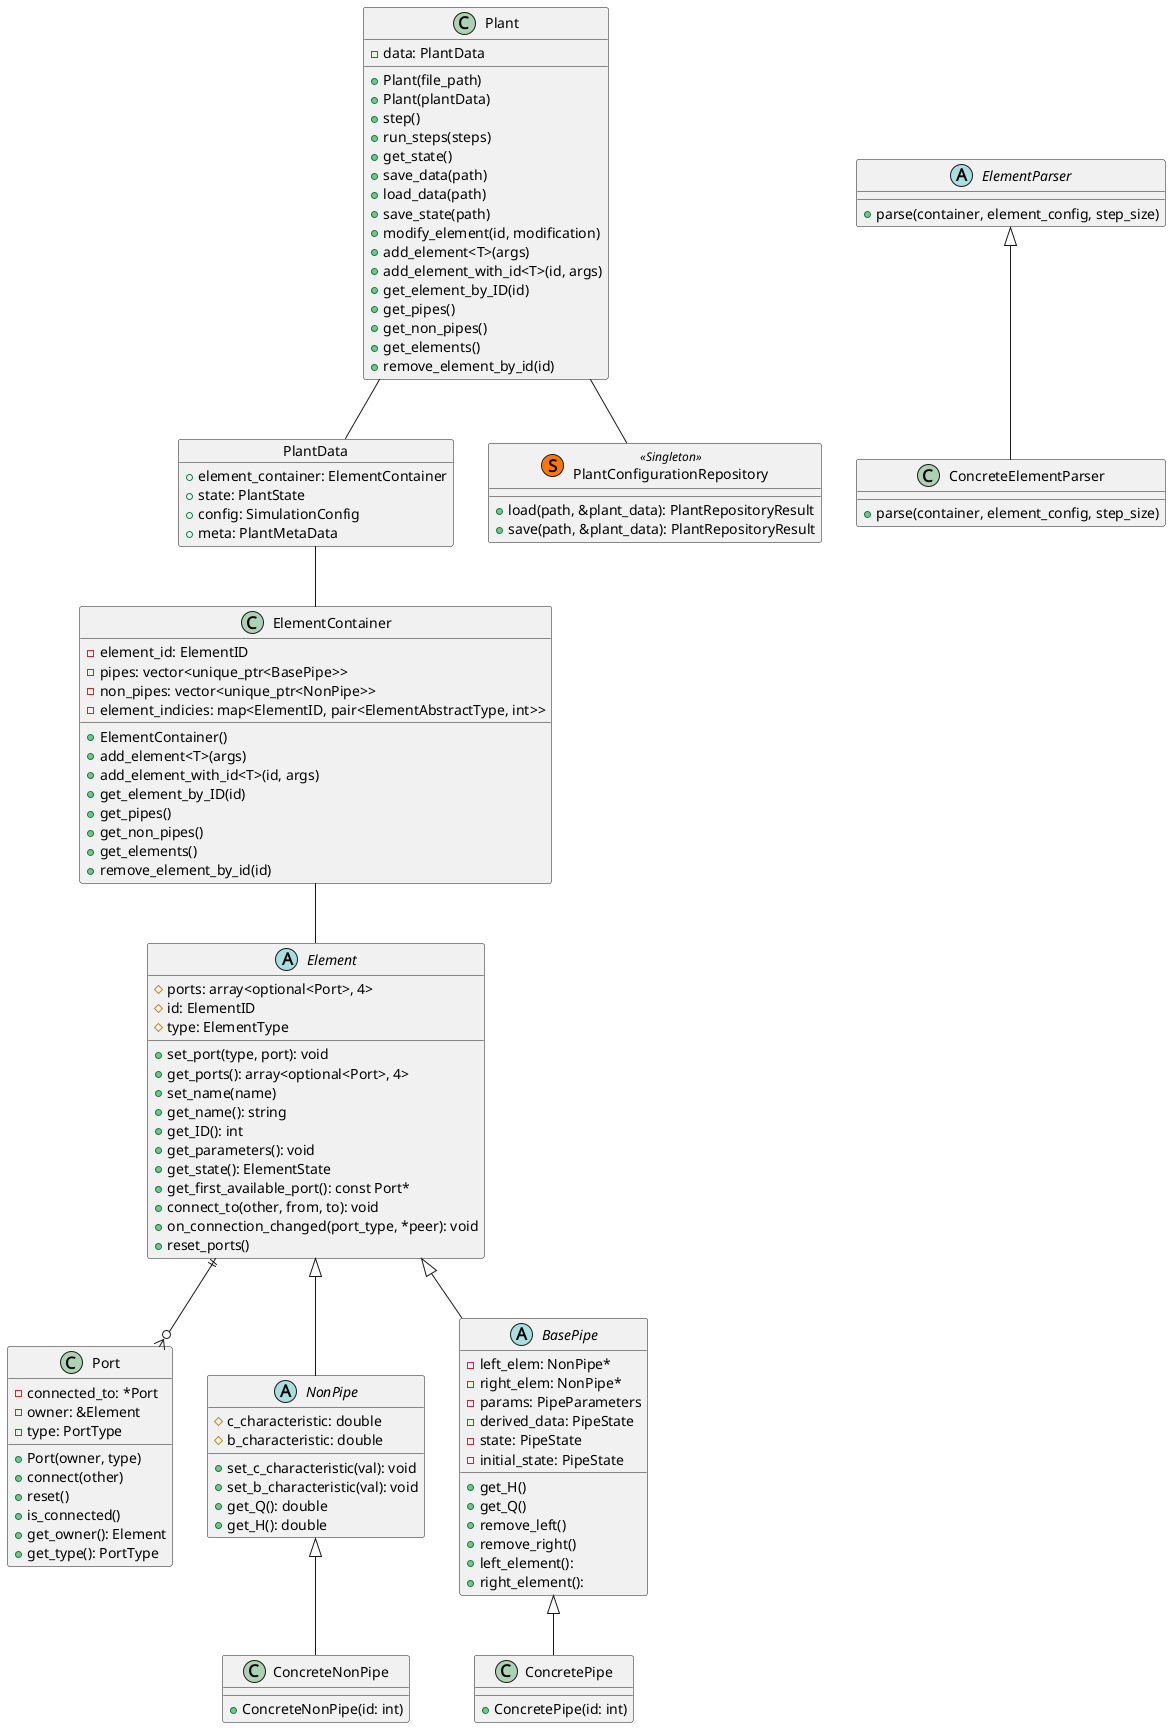
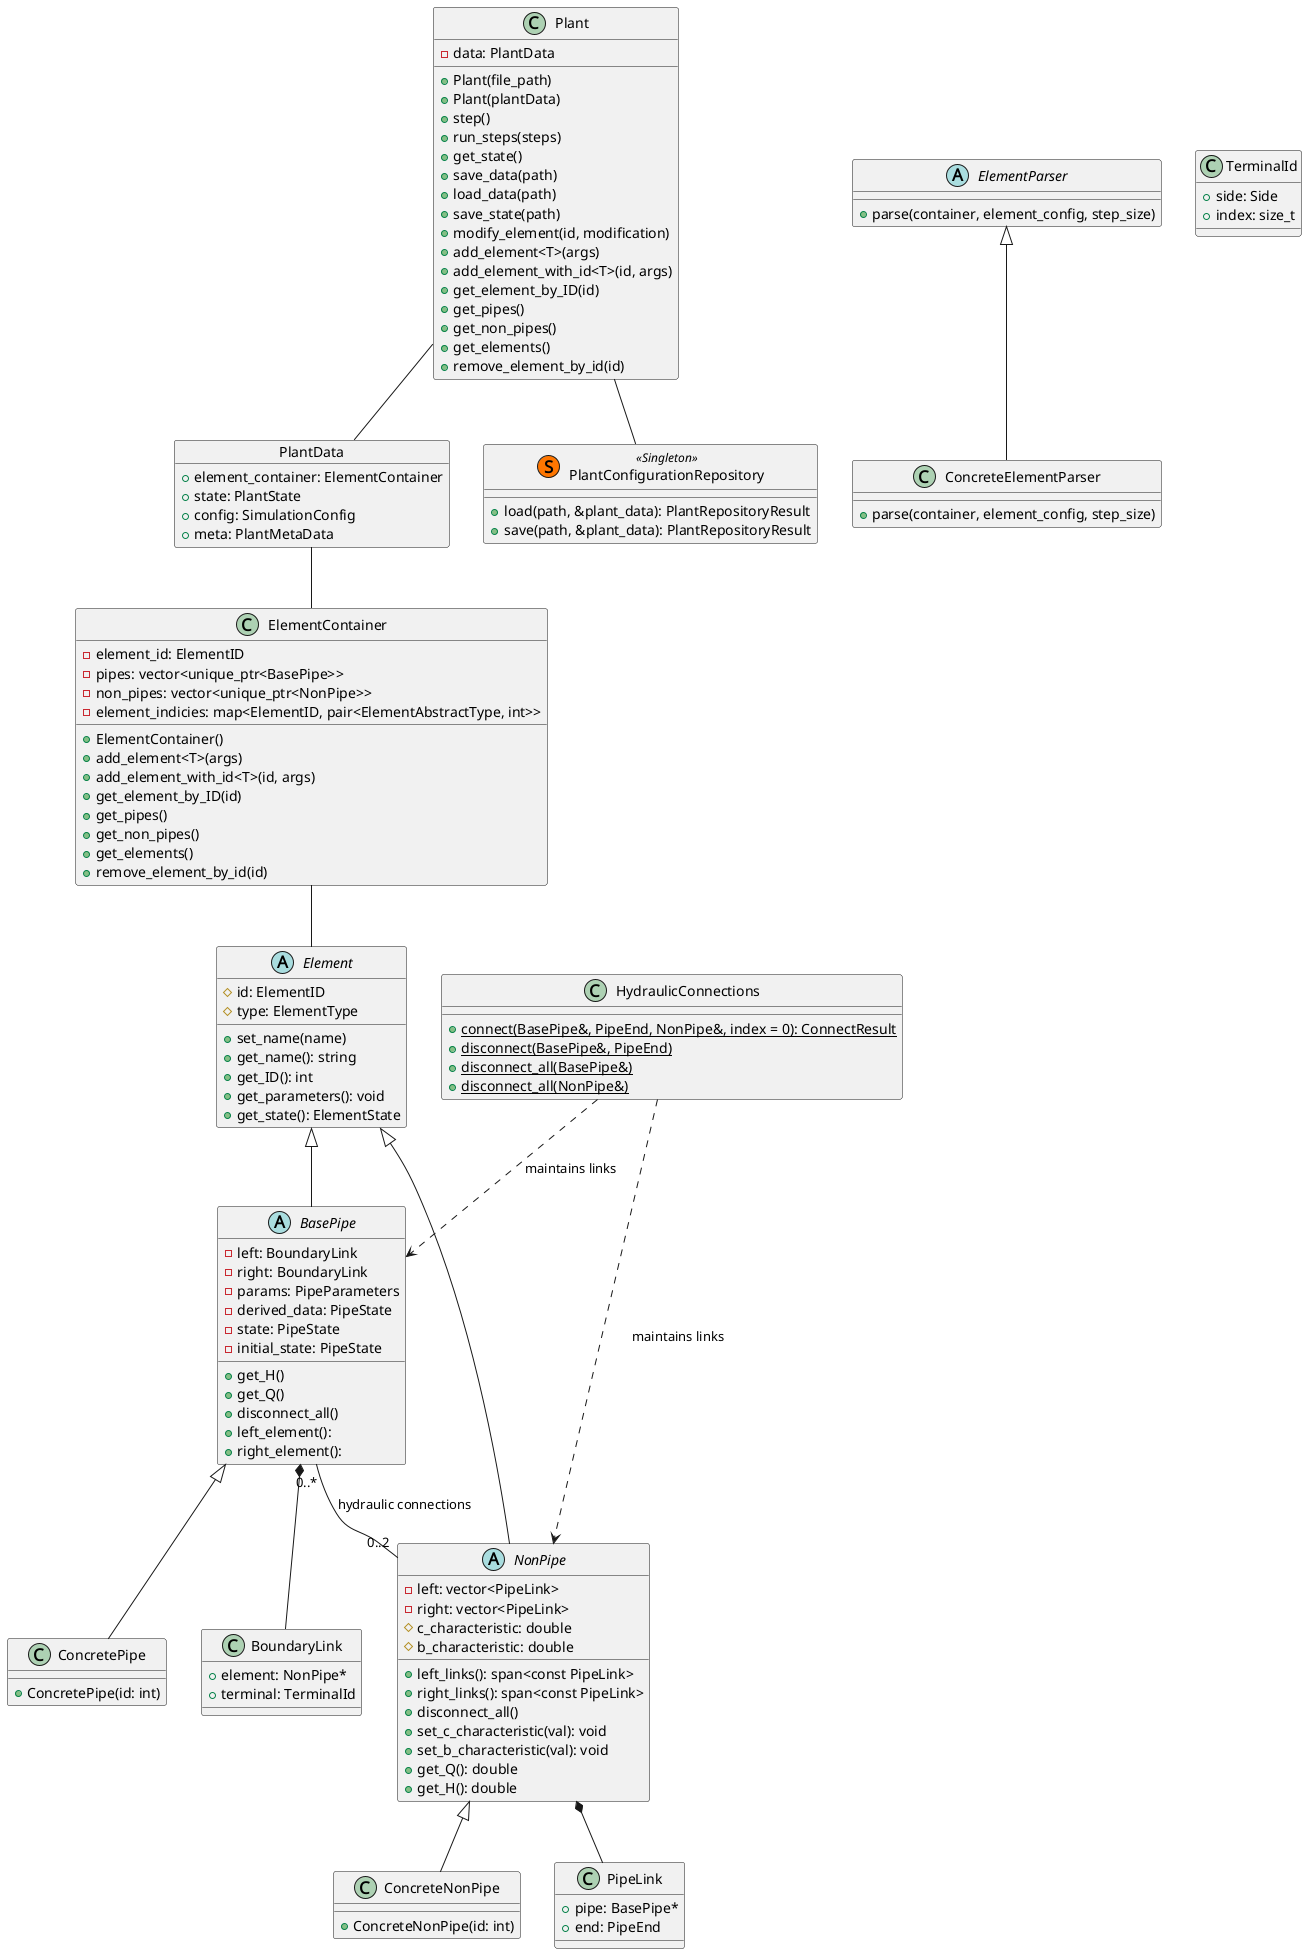
refactor!: refactor element connections and add new elements

diff --git a/examples/reservoir_pipe_valve.cpp b/examples/reservoir_pipe_valve.cpp
@@ -6,11 +6,11 @@
 #include <lvtrans/elements/reservoir.hpp>
 #include <lvtrans/elements/valve.hpp>
 #include <memory>
+#include <stdexcept>
 #include "lvtrans/const.hpp"
 #include "lvtrans/elements/constant_level_left.hpp"
 #include "lvtrans/elements/element.hpp"
 #include "lvtrans/plant.hpp"
-#include "lvtrans/port.hpp"
 
 inline double a = 1200.0;   // Wave propagation velocity [m/s]
 inline double f = 0.018;    // Darcy-Weisbach friction factor
@@ -43,6 +43,7 @@ int main() {
     return 1;
   }
 
+  output_file << "t,tau,H_valve,Q_valve\n";
   const auto system_dt = 0.1;
   const auto segments =
       calculate_nodes_temp(pipe_config.lambda, pipe_config.length, system_dt,
@@ -53,8 +54,9 @@ int main() {
 
   Plant plant(system_dt);
 
-  std::vector<double> H0_{};
-  std::vector<double> Q0_{};
+  const auto nodes = static_cast<std::size_t>(segments) + 1;
+  std::vector<double> H0_(nodes, 0.0);
+  std::vector<double> Q0_(nodes, 0.0);
 
   const double area = calculate_pipe_area(
       pipe_config.area, pipe_config.diameter, pipe_config.dimension);
@@ -71,12 +73,14 @@ int main() {
   const double Qi = std::sqrt(HR * Q0 * Q0 * tau_i * tau_i /
                               (R * segments * Q0 * Q0 * tau_i * tau_i + H0));
 
-  for (size_t i = 0; i < static_cast<size_t>(segments); i += 2) {
+  for (size_t i = 0; i < nodes; i += 2) {
     H0_[i] = HR - static_cast<double>(i) * R * Qi * Qi;
     Q0_[i] = Qi;
   }
 
-  auto pipe = plant.add_element<Pipe>(pipe_config, H0_, Q0_, 0.1).value();
+  pipe_config.H0 = H0_;
+  pipe_config.Q0 = Q0_;
+  auto pipe = plant.add_element<Pipe>(pipe_config, system_dt).value();
 
   const double CVP = 0.5 * Q0 * Q0 / H0;
 
@@ -89,8 +93,8 @@ int main() {
 
   auto valve = plant.add_element<Valve>(valve_config).value();
 
-  pipe->connect_to(reservoir, PortType::Left, PortType::Right);
-  pipe->connect_to(valve, PortType::Right, PortType::Left);
+  HydraulicConnections::connect(*pipe, PipeEnd::Left, *reservoir);
+  HydraulicConnections::connect(*pipe, PipeEnd::Right, *valve);
 
   const int Kmax = static_cast<int>(0.5 * Tmax / dt) + 1;
 

diff --git a/examples/gui/gui.cpp b/examples/gui/gui.cpp
@@ -1,6 +1,7 @@
 #include <GLFW/glfw3.h>
 #include <cmath>
 #include <iostream>
+#include <stdexcept>
 #include <vector>
 #include "imgui.h"
 #include "imgui_impl_glfw.h"
@@ -123,8 +124,8 @@ int main() {
   const double CVP = 0.5 * Q0 * Q0 / H0;
   auto pipe = plant.add_element<Pipe>(pipe_config, sim_dt).value();
   auto reservoir = plant.add_element<ConstantLevelLeft>(150.0).value();
-  auto pipe2 = plant.add_element<Pipe>(pipe_config, sim_dt).value();
-  auto reservoir2 = plant.add_element<ConstantLevelRight>(150.0).value();
+  // auto pipe2 = plant.add_element<Pipe>(pipe_config, sim_dt).value();
+  // auto reservoir2 = plant.add_element<ConstantLevelRight>(150.0).value();
 
   ValveParameters valve_config{};
   valve_config.tau_i = tau_i;
@@ -135,10 +136,11 @@ int main() {
 
   auto valve = plant.add_element<Valve>(valve_config).value();
 
-  pipe->connect_to(reservoir, PortType::Left, PortType::Right);
-  pipe->connect_to(valve, PortType::Right, PortType::Left);
-  pipe2->connect_to(reservoir2, PortType::Right, PortType::Left);
-  pipe2->connect_to(valve, PortType::Left, PortType::Right);
+  HydraulicConnections::connect(*pipe, PipeEnd::Left, *reservoir);
+  HydraulicConnections::connect(*pipe, PipeEnd::Right, *valve);
+  // HydraulicConnections::connect(*pipe2, PipeEnd::Right, *reservoir2);
+  // HydraulicConnections::connect(*pipe2, PipeEnd::Left, *valve);
+
   plant.display();
 
   PlotContainer plots{.time = std::vector<double>{},

diff --git a/benchmarks/bench_pipe.cpp b/benchmarks/bench_pipe.cpp
@@ -1,4 +1,5 @@
 #include <benchmark/benchmark.h>
+#include <stdexcept>
 #include "lvtrans/elements/constant_level_left.hpp"
 #include "lvtrans/elements/pipe.hpp"
 #include "lvtrans/elements/valve.hpp"
@@ -6,8 +7,8 @@
 static void BM_PipeIterate(benchmark::State& state, double dt) {
   using namespace lvtrans;
 
-  auto reservoir = std::make_shared<ConstantLevelLeft>(150.0).get();
-  auto valve = std::make_shared<Valve>(ValveParameters{}).get();
+  ConstantLevelLeft reservoir(150.0);
+  Valve valve(ValveParameters{});
 
   Pipe pipe(
       PipeParameters{
@@ -20,8 +21,9 @@ static void BM_PipeIterate(benchmark::State& state, double dt) {
       },
       dt);
 
-  pipe.connect(reservoir);
-  pipe.connect(valve);
+  HydraulicConnections::connect(pipe, PipeEnd::Left, reservoir);
+
+  HydraulicConnections::connect(pipe, PipeEnd::Right, valve);
 
   for (auto _ : state) {
     pipe.iterate();

diff --git a/examples/reservoir_pipe_valve_old.cpp b/examples/reservoir_pipe_valve_old.cpp
@@ -174,6 +174,13 @@ int main() {
     // closing valve
     // ========================================================
 
+    // Evaluate the opening at the time being solved.
+    if (t < tc) {
+      tau = tau_i - (tau_i - tau_f) * std::pow(t / tc, em);
+    } else {
+      tau = tau_f;
+    }
+
     const double CV = tau * tau * CVP;
 
     // C+ characteristic arriving at valve
@@ -191,11 +198,6 @@ int main() {
     // Example output
     // --------------------------------------------------------
 
-    if (t < tc) {
-      tau = tau_i - (tau_i - tau_f) * std::pow(t / tc, em);
-    } else {
-      tau = tau_f;
-    }
     std::cout << t << "," << tau << "," << H[N] << "," << Q[N] << '\n';
     output_file << t << "," << tau << "," << H[N] << "," << Q[N] << '\n';
   }

diff --git a/benchmarks/bench_plant.cpp b/benchmarks/bench_plant.cpp
@@ -1,4 +1,5 @@
 #include <benchmark/benchmark.h>
+#include <stdexcept>
 #include "lvtrans/elements/constant_level_left.hpp"
 #include "lvtrans/elements/valve.hpp"
 #include "lvtrans/plant.hpp"
@@ -30,8 +31,9 @@ static lvtrans::Pipe* add_pipe_group(lvtrans::Plant& plant, float dt) {
                     })
                     .value();
 
-  pipe->connect(reservoir);
-  pipe->connect(valve);
+  HydraulicConnections::connect(*pipe, PipeEnd::Left, *reservoir);
+
+  HydraulicConnections::connect(*pipe, PipeEnd::Right, *valve);
   return pipe;
 }
 
